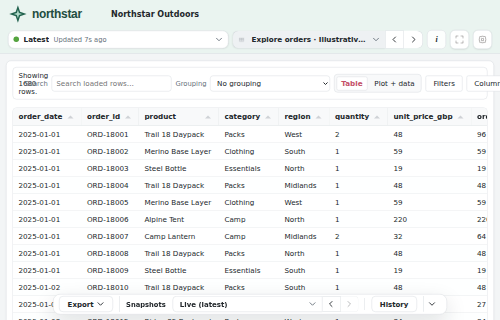
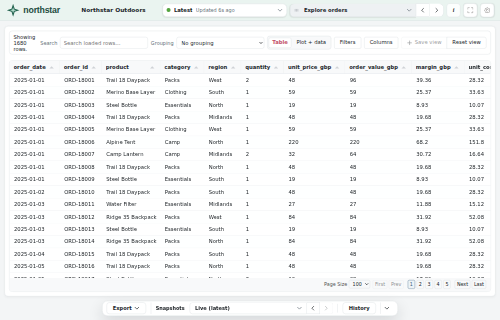
Refresh polished demo previews and record upgrade verification

diff --git a/assurance/tests/test_demo_refresh_runtime.py b/assurance/tests/test_demo_refresh_runtime.py
@@ -289,7 +289,7 @@ runpy.run_path(str(script), run_name='__main__')
     try:
         r.start()
         result = subprocess.run([sys.executable, '-c', legacy, str(script)],
-            cwd=tmp_path, env=r.env, capture_output=True, text=True, timeout=120)
+            cwd=tmp_path, env=r.env, capture_output=True, text=True, timeout=120, check=False)
         assert result.returncode == 0, result.stdout + result.stderr
         before = {v: r.get('/history', view=v)['snapshots'] for v in HISTORY[demo]}
         assert all(len(rows) == 3 for rows in before.values())

diff --git a/deploy/DEMO-CONTENT.md b/deploy/DEMO-CONTENT.md
@@ -91,6 +91,16 @@ Do not clear production storage to reseed the examples.
 
 ### Presentation update verification (October 5)
 
+Final polish checks cover a real upgrade from legacy revision titles on both
+retail and imports: one new current snapshot, earlier retained snapshot IDs
+preserved, and no further publication on repeat. The 27 focused demo checks pass,
+including actual receiver/browser checks for hidden dropdown text and retained
+About explanations, restart stability, and a two-column report table. Separate
+browser captures verify the retail table fits at 320 and 390 pixels. The import
+legend is outside both the plotted data and chart title. Updated thumbnail and
+website captures use these actual local views. Core configuration, UI editor,
+description-browser and HTML/asset checks pass (110 checks).
+
 A follow-up browser review caught and corrected a truncated field-name preview in
 the Northstar summary and an import chart title that incorrectly described source
 files instead of time windows. The summary now groups field names by purpose and
